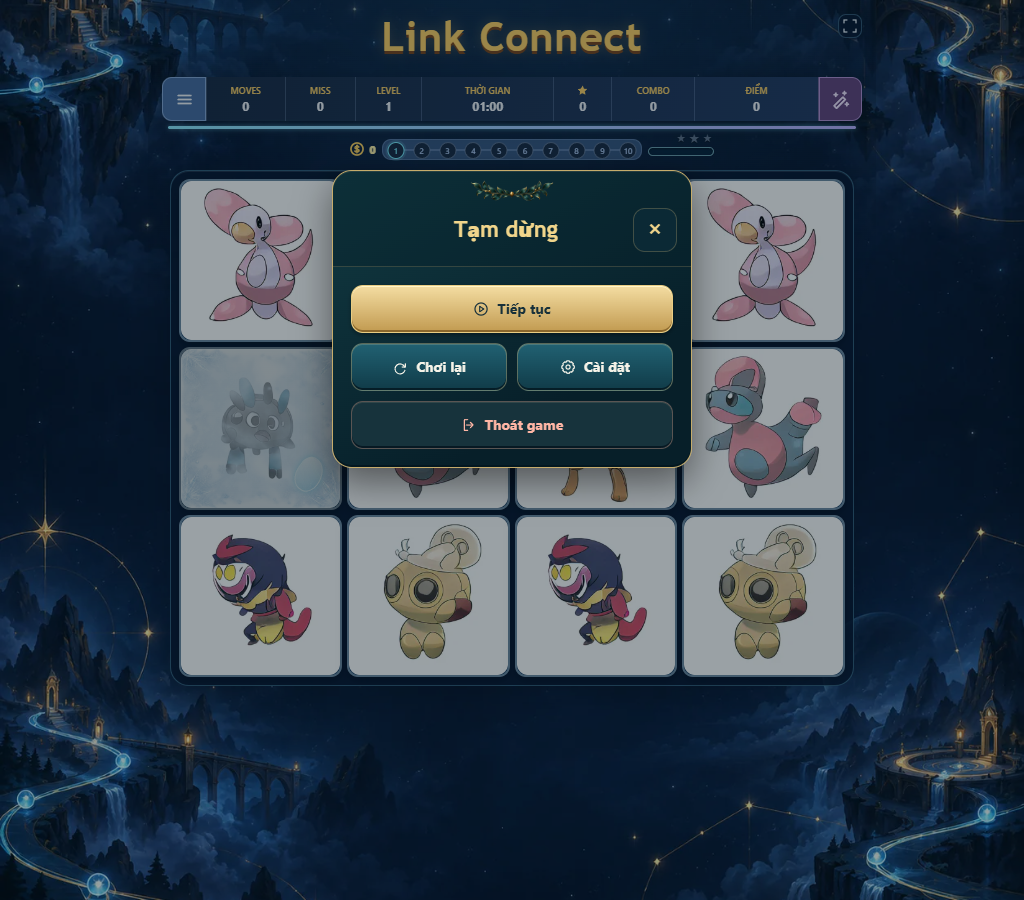
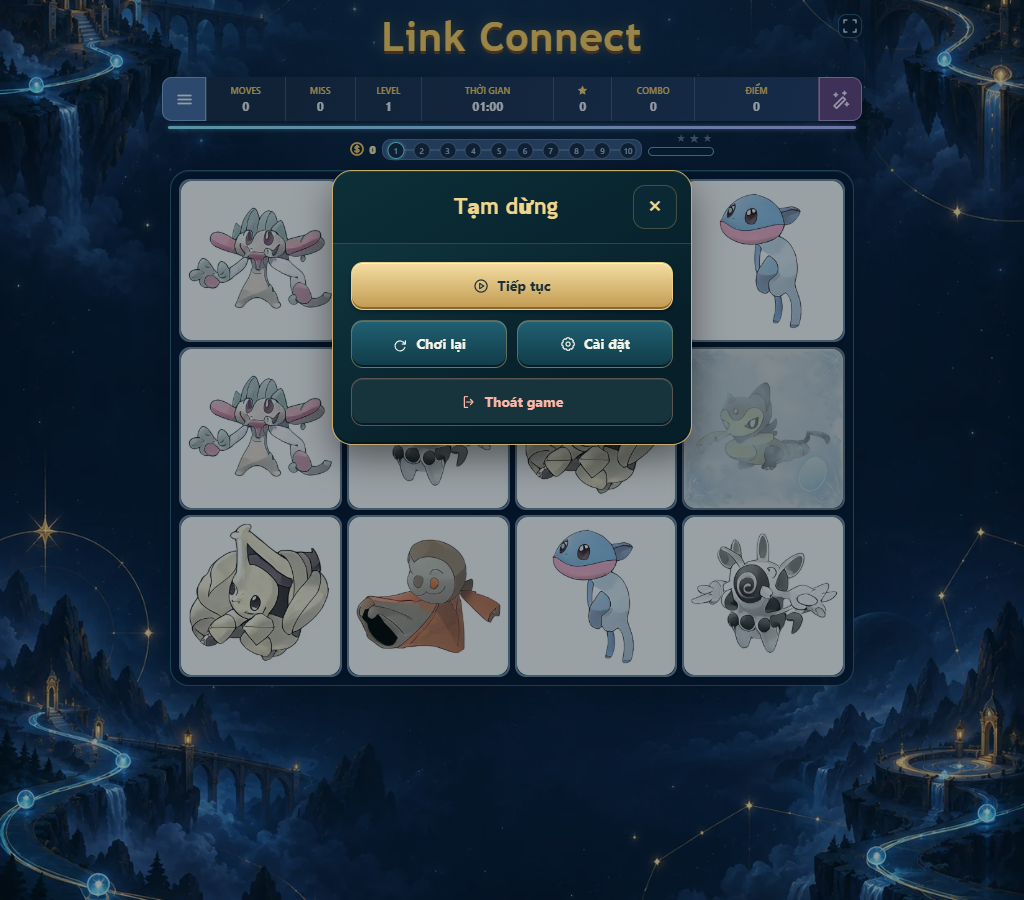
fix: remove the pause dialog ornament

Changed region(s): [[0.1562, 0.1867, 0.8438, 0.7467], [0.5312, 0.5911, 0.625, 0.7467]]

diff --git a/styles/modals.css b/styles/modals.css
@@ -1202,8 +1202,7 @@ body.game-is-paused .shooting-star {
 .app-modal-overlay[data-dialog-placement] .app-button:focus-visible { outline: 2px solid var(--dialog-gold); outline-offset: -3px; }
 .app-modal-overlay[data-dialog-placement] .app-button:active:not(:disabled) { transform: translateY(1px); }
 #game-exit-modal .pause-dialog { position: relative; border-color: #c6ac6b; border-radius: 20px; box-shadow: var(--dialog-edge); }
-#game-exit-modal .app-modal__header { position: relative; min-height: 96px; padding: 36px 14px 14px; border-bottom-color: #b6a16c40; background: #061f2966; }
-#game-exit-modal .app-modal__header::before { content: ''; position: absolute; top: 6px; left: calc(50% - 42px); width: 84px; height: 28px; background: url('/assets/images/backgrounds/botanical-header-flourish.webp') center / contain no-repeat; pointer-events: none; }
+#game-exit-modal .app-modal__header { position: relative; min-height: 72px; padding: 14px; border-bottom-color: #b6a16c40; background: #061f2966; }
 #game-exit-modal .app-modal__title { flex: 1; justify-content: center; margin-left: 44px; color: var(--dialog-gold); font-size: 22px; }
 #game-exit-modal .app-modal__title .ui-icon { display: none; }
 #game-exit-modal .app-modal__body { display: none; }
@@ -1214,7 +1213,6 @@ body.game-is-paused .shooting-star {
 #game-exit-modal .app-button--danger { background: #17333c; border-color: #bf887566; box-shadow: inset 0 1px #ffe8b51c, inset 0 -2px #071923; color: #ffb6a5; }
 @media (height <= 500px) {
   #game-exit-modal .app-modal__header { min-height: 60px; padding: 8px 12px; }
-  #game-exit-modal .app-modal__header::before { display: none; }
   #game-exit-modal .app-modal__footer { gap: 8px; padding: 12px; }
   #game-exit-modal .app-button { min-height: 44px; }
 }

diff --git a/tests/ui/dialog-placement.spec.js b/tests/ui/dialog-placement.spec.js
@@ -27,6 +27,8 @@ for (const viewport of [{width:412,height:915},{width:844,height:390},{width:102
   await page.setViewportSize(viewport); await start(page,game);
   await page.locator(trigger).click(); await aligned(page,'#game-exit-modal .app-modal');
   await expect(page.locator('#game-exit-modal .app-modal__body')).toBeHidden();
+  expect(await page.locator('#game-exit-modal .app-modal__header').evaluate(el=>getComputedStyle(el,'::before').content)).toBe('none');
+  expect((await page.locator('#game-exit-modal .app-modal__header').boundingBox()).height).toBeLessThanOrEqual(80);
   const bounds = await page.locator('#game-exit-modal .app-modal').boundingBox();
   for(const button of await page.locator('#game-exit-modal button').all()) {
     const b=await button.boundingBox(); expect(b.y).toBeGreaterThanOrEqual(bounds.y); expect(b.y+b.height).toBeLessThanOrEqual(bounds.y+bounds.height);

diff --git a/ARCHITECTURE.md b/ARCHITECTURE.md
@@ -193,6 +193,6 @@ Pair snapshot giữ seed/theme, bàn thật, score/moves/misses/matched, lucky h
 
 `dialogPlacement.js` sở hữu vị trí của mỗi popup qua lifecycle của popup: đọc region board của shell đang hiện, neo mép trên theo board và clamp trong visualViewport/safe-area. Bản đồ dùng `--shell-board-reference-top` từ token chrome chung trong `presentation.css`, đọc vị trí pseudo zero-size; popup chọn độ khó vì vậy cùng cao độ gameplay ngay lần đầu mà không mount game giả hoặc lưu tọa độ cũ. Ngoài bản đồ/gameplay dùng lề16px. Resize/scroll/ResizeObserver được gộp một RAF theo sự kiện, không vòng lặp; dispose hủy listener/observer/RAF. `modal.js` kết nối cho dialog, loại presentation screen; chiều cao còn lại giới hạn panel và body cuộn. Intro trong `ui.js` dùng cùng connection, local scope riêng và parent release; replace/destroy hủy timer/callback cũ. Offset intro/victory riêng đã bỏ. Toast và menu công cụ nhỏ giữ vị trí theo chức năng.
 
-`gameExitDialog.js` giữ pause/handoff owner của ba game. Tiếp tục dùng default close/onClose; Chơi lại/Lượt mới và Thoát game giữ async busy guard và callback cũ. Cài đặt chỉ handoff sau close. `styles/modals.css` sở hữu palette dialog Vườn đêm, nút44px, close/focus/reduced-motion và pause layout; dùng flourish hiện có, không thêm ảnh hay animation loop. Exit bản đồ vẫn thuộc navigation/header, góc56×60px và safe-area, không nằm trong map scroll.
+`gameExitDialog.js` giữ pause/handoff owner của ba game. Tiếp tục dùng default close/onClose; Chơi lại/Lượt mới và Thoát game giữ async busy guard và callback cũ. Cài đặt chỉ handoff sau close. `styles/modals.css` sở hữu palette dialog Vườn đêm, nút44px, close/focus/reduced-motion và pause layout; ornament ảnh trong pause đã gỡ theo yêu cầu người dùng, tiêu đề thu gọn, không thêm ảnh hay animation loop. Exit bản đồ vẫn thuộc navigation/header, góc56×60px và safe-area, không nằm trong map scroll.
 
 Header/exit chung áp dụng mọi `adventure-screen[data-screen]`, gồm Cửa hàng/Bộ sưu tập; không giữ whitelist khiến screen mới rơi về nút tròn. `styles/shop.css` sở hữu slot Xu ở giữa header, giới hạn chiều rộng số dài để không chạm tên/nút thoát; số và accessible label giữ đúng nguồn. `mainmenu.js` vẫn dùng gameId cho catalog/equip, chỉ bỏ tên game lặp trong title Bộ sưu tập. Home mới chỉ có2concept ngoài bundle trong `docs/design/home-concepts/`, chưa đổi runtime.

diff --git a/HOME_MENU_IMPLEMENTATION_PLAN.md b/HOME_MENU_IMPLEMENTATION_PLAN.md
@@ -1,0 +1,21 @@
+# Main menu hướng1 — 2026-10-15
+
+Scope: một ô Memory lớn, Link/Triple bên dưới; art riêng rõ nét và không chữ, frame/label tương tác thật. Không đổi game/mode/navigation API, save/catalog/tiến độ hoặc nội dung5tab. Steering: gỡ ornament ảnh trong pause popup và phần padding của ornament; không áp dụng sheet popup mới vào gameplay.
+
+Correction trước phase1: bỏ ornament pause, giữ vị trí/nút/pause; kiểm tra3game, commit riêng.
+
+## Phase1 — Mỹ thuật runtime
+- Dùng imagegen tạo ảnh riêng theo mẫu1 đã chọn; không kéo giãn các ô400px từ sheet.
+- Master PNG ngoài bundle, WebP đúng kích thước; prompt/metadata, kiểm hình và ngân sách ≤350KB cho3ảnh mới; commit.
+
+## Phase2 — Giao diện và ownership
+- Một owner CSS cho selector, gỡ selector cũ đang trùng ở menu/adventure; không dọn phần khác.
+- Native buttons/DOM title, scope sở hữu listener; background/art tĩnh, không loop. Ảnh lỗi vẫn chọn được bằng tên và nền fallback.
+- So sánh ảnh nguyên màn và DOM+art: chọn DOM+art để keyboard/focus/crop và thêm trò; không screenshot có chữ làm UI.
+-3trò: featured +2ô;4trò trở lên: lưới2cột, nội dung cuộn và dock/ad slot giữ nguyên. Compact landscape3cột ngang để đủ vùng bấm. Giữ cơ chế preload nền map cũ.
+- Không thay tab khác hoặc add ornament popup; commit.
+
+## Phase3 — Nghiệm thu
+- Mobile412×915, hẹp, landscape và desktop; ảnh/snapshot runtime, keyboard, lỗi tải ảnh, chuyển game/Home, tab và30cycles ownership.
+- Review độc lập, regression navigation/map/pause phù hợp; fullcheck, build web/Android. Đo browser chỉ là browser, S22 Ultra thật còn chờ. Không deploy.
+- Cập nhật CONTEXT/ARCHITECTURE/QA, commit; không dừng ở checkpoint khi còn phần an toàn làm được.

diff --git a/CONTEXT.md b/CONTEXT.md
@@ -4,6 +4,8 @@
 
 ## Sản phẩm
 
+- Active: `HOME_MENU_IMPLEMENTATION_PLAN.md` — triển khai main menu hướng1 bằng art riêng cho3trò, giữ navigation/save, commit từng phase. Steering: gỡ ornament ảnh trong pause popup, không áp dụng sheet popup vào game.
+
 - Home đã chốt hướng1 (một ô lớn/hai ô nhỏ, có thể mở rộng lưới). Sheet12vùng nền trò/popup/tiêu đề/khung dùng skill imagegen đã lưu ở `docs/design/home-assets/README.md`; PNG alpha và ảnh QA nền tối đã kiểm. Chỉ tạo nguồn mỹ thuật, chưa cắt asset rời hoặc sửa code Home. Sheet1254px, chưa xem là master đủ mọi DPR; không còn task triển khai active từ yêu cầu vẽ sheet.
 
 - `POPUP_POLISH_PLAN.md`: phase1–5 hoàn tất trong phạm vi được giao, không còn kế hoạch triển khai active. Exit bản đồ và mọi screen chức năng (gồm Cửa hàng/Bộ sưu tập) gắn header; Xu giữa Cửa hàng; title Bộ sưu tập không lặp game. Popup bám board, bản đồ dùng cùng mốc chrome ngay lần đầu; menu tạm dừng Vườn đêm có Tiếp tục. QA: `docs/design/popups/QA.md`. Hai mẫu Home và prompt ở `docs/design/home-concepts/README.md`, chỉ tham khảo, chưa đổi code Home. Không deploy/đổi save; S22 Ultra thật còn chờ.
